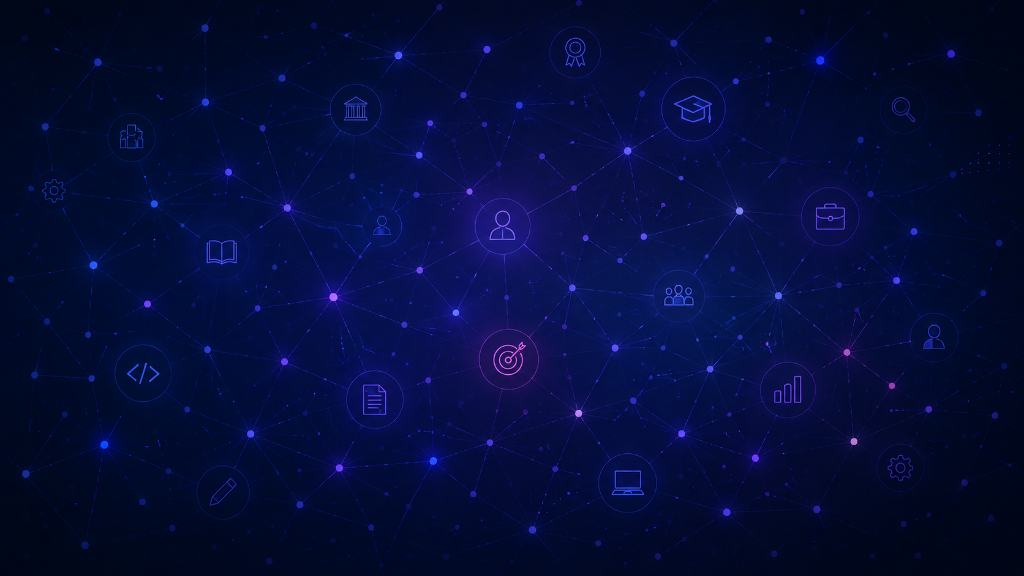
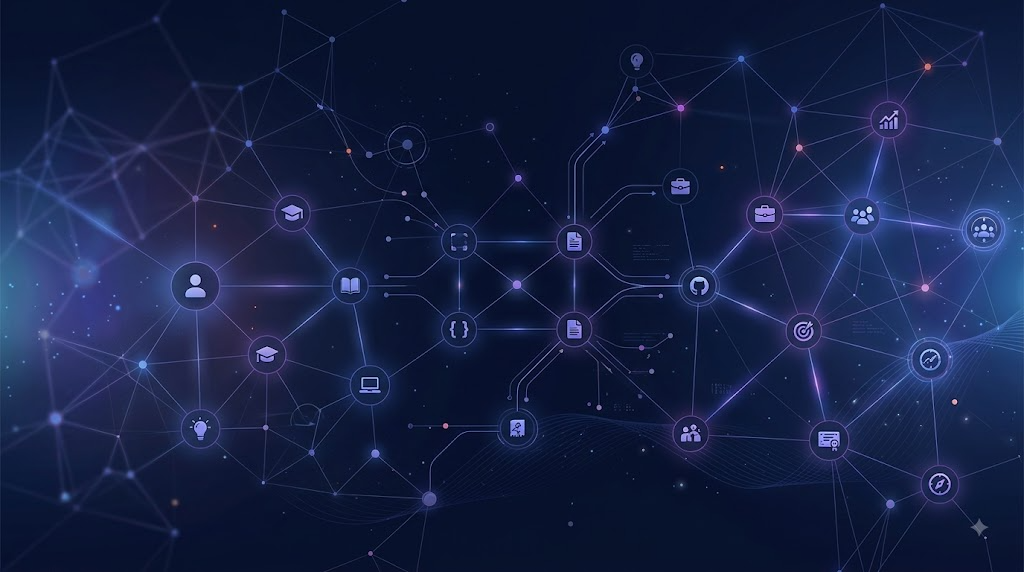
feat(member-3): replace homepage background with approved career network visual

diff --git a/src/pages/Landing.jsx b/src/pages/Landing.jsx
@@ -1,6 +1,6 @@
 import React, { useState } from 'react'
 import { useNavigate } from 'react-router-dom'
-import { motion, AnimatePresence } from 'framer-motion'
+import { motion, AnimatePresence, useReducedMotion } from 'framer-motion'
 import {
   Dna,
   ShieldCheck,
@@ -37,6 +37,8 @@ export const Landing = () => {
   const { user } = useApp()
   const [activeTabRole, setActiveTabRole] = useState('AI/ML Engineer')
   const [activePipelineStep, setActivePipelineStep] = useState(0)
+
+  const shouldReduceMotion = useReducedMotion()
 
   const heroVariants = {
     hidden: { opacity: 0, y: 24 },
@@ -92,7 +94,7 @@ export const Landing = () => {
     <div
       style={{
         minHeight: '100vh',
-        background: 'var(--color-bg)',
+        background: 'transparent',
         color: 'var(--color-text-main)',
         display: 'flex',
         flexDirection: 'column',
@@ -103,7 +105,7 @@ export const Landing = () => {
         overflowX: 'hidden'
       }}
     >
-      {/* Full-Page Fixed Animated Career Network Background Environment (Layer 0 & 1) */}
+      {/* Full-Page Fixed Uploaded Image Background Environment (Layer 0 & 1) */}
       <div
         style={{
           position: 'fixed',
@@ -113,135 +115,42 @@ export const Landing = () => {
           zIndex: 0
         }}
       >
-        {/* Dark Readability Overlay Gradient (guarantees text contrast on left while network spans full screen) */}
-        <div
-          style={{
-            position: 'absolute',
-            inset: 0,
-            background: 'linear-gradient(90deg, rgba(3, 5, 17, 0.95) 0%, rgba(3, 5, 17, 0.82) 40%, rgba(3, 5, 17, 0.45) 75%, rgba(3, 5, 17, 0.20) 100%)',
-            zIndex: 2
-          }}
-        />
-
-        {/* Ambient Glowing Neon Aura Pulse (Stationary GPU Glow) */}
+        {/* Exact Uploaded Background Image (Layer 0) */}
         <motion.div
-          animate={{
-            scale: [0.98, 1.15, 0.98],
-            opacity: [0.4, 0.75, 0.4]
-          }}
-          transition={{
-            duration: 12,
-            repeat: Infinity,
-            ease: 'easeInOut'
-          }}
+          animate={shouldReduceMotion ? {} : { scale: [1, 1.015, 1], y: [-3, 3, -3] }}
+          transition={{ duration: 25, repeat: Infinity, ease: 'easeInOut' }}
           style={{
             position: 'absolute',
             inset: 0,
             width: '100vw',
             height: '100vh',
-            background: 'radial-gradient(circle at 50% 50%, rgba(139, 92, 246, 0.35) 0%, rgba(59, 130, 246, 0.22) 50%, rgba(255, 85, 0, 0.15) 80%, transparent 100%)',
-            filter: 'blur(60px)',
-            zIndex: 1,
-            willChange: 'transform',
-            transform: 'translateZ(0)'
-          }}
-        />
-
-        {/* Full Environmental Floating Career Network Visual (GPU Accelerated 60 FPS Layer) */}
-        <motion.div
-          animate={{
-            y: [-6, 6, -6],
-            x: [-4, 4, -4],
-            scale: [1.02, 1.05, 1.02]
-          }}
-          transition={{
-            duration: 25,
-            repeat: Infinity,
-            ease: 'easeInOut'
-          }}
-          style={{
-            position: 'absolute',
-            inset: 0,
-            width: '100vw',
-            height: '100vh',
-            opacity: 0.95,
-            zIndex: 1,
             willChange: 'transform',
             transform: 'translateZ(0)'
           }}
         >
           <img
             src={careerNetworkBgImg}
-            alt="Career Network Full Screen Background"
+            alt="Approved Career Network Full Screen Background"
             decoding="async"
             style={{
-              width: '105vw',
-              height: '105vh',
-              marginLeft: '-2.5vw',
-              marginTop: '-2.5vh',
+              width: '100%',
+              height: '100%',
               objectFit: 'cover',
               objectPosition: 'center center',
-              filter: 'brightness(0.95) contrast(1.12)',
-              willChange: 'transform'
-            }}
-          />
-
-          {/* Organic Staggered Pulsing Network Nodes Overlay */}
-          {[
-            { top: '38%', left: '49%', size: 14, color: '#A855F7', delay: 0 },
-            { top: '61%', left: '49%', size: 16, color: '#FF5500', delay: 1.5 },
-            { top: '18%', left: '67%', size: 12, color: '#3B82F6', delay: 0.8 },
-            { top: '51%', left: '66%', size: 10, color: '#8B5CF6', delay: 2.2 },
-            { top: '44%', left: '21%', size: 12, color: '#38BDF8', delay: 1.2 },
-            { top: '67%', left: '77%', size: 11, color: '#EC4899', delay: 2.8 },
-            { top: '32%', left: '33%', size: 10, color: '#8B5CF6', delay: 0.4 }
-          ].map((node, idx) => (
-            <motion.div
-              key={idx}
-              animate={{
-                scale: [0.9, 1.45, 0.9],
-                opacity: [0.35, 0.9, 0.35]
-              }}
-              transition={{
-                duration: 3.5,
-                repeat: Infinity,
-                ease: 'easeInOut',
-                delay: node.delay
-              }}
-              style={{
-                position: 'absolute',
-                top: node.top,
-                left: node.left,
-                width: `${node.size}px`,
-                height: `${node.size}px`,
-                borderRadius: '50%',
-                background: node.color,
-                boxShadow: `0 0 16px 4px ${node.color}`,
-                pointerEvents: 'none',
-                willChange: 'transform, opacity'
-              }}
-            />
-          ))}
-
-          {/* Periodic Environmental Soft Light Sweep */}
-          <motion.div
-            animate={{
-              x: ['-100%', '200%']
-            }}
-            transition={{
-              duration: 7,
-              repeat: Infinity,
-              ease: 'easeInOut',
-              repeatDelay: 4
-            }}
-            style={{
-              position: 'absolute',
-              inset: 0,
-              background: 'linear-gradient(90deg, transparent 0%, rgba(139, 92, 246, 0.15) 50%, transparent 100%)',
-              pointerEvents: 'none'
+              display: 'block'
             }}
           />
         </motion.div>
+
+        {/* Independent Dark Readability Overlay Gradient (Layer 1, outside image) */}
+        <div
+          style={{
+            position: 'absolute',
+            inset: 0,
+            background: 'linear-gradient(90deg, rgba(3, 5, 17, 0.85) 0%, rgba(3, 5, 17, 0.65) 45%, rgba(3, 5, 17, 0.35) 80%, rgba(3, 5, 17, 0.15) 100%)',
+            zIndex: 1
+          }}
+        />
       </div>
 
       {/* Premium Pill-Shaped Glassmorphism Header Navigation Bar */}

diff --git a/src/components/common/NeuralBackground.jsx b/src/components/common/NeuralBackground.jsx
@@ -1,9 +1,14 @@
 import React, { useEffect, useRef } from 'react'
+import { useLocation } from 'react-router-dom'
 
 export const NeuralBackground = () => {
   const canvasRef = useRef(null)
+  const location = useLocation()
+  const isHomePage = location.pathname === '/'
 
   useEffect(() => {
+    if (isHomePage) return
+
     const canvas = canvasRef.current
     if (!canvas) return
     const ctx = canvas.getContext('2d')
@@ -116,7 +121,9 @@ export const NeuralBackground = () => {
       if (!isTouch) window.removeEventListener('mousemove', handleMouseMove)
       cancelAnimationFrame(animationFrameId)
     }
-  }, [])
+  }, [isHomePage])
+
+  if (isHomePage) return null
 
   return (
     <canvas

diff --git a/src/App.jsx b/src/App.jsx
@@ -23,9 +23,9 @@ import './styles/globals.css'
 function App() {
   return (
     <AppProvider>
-      <NeuralBackground />
-      <CustomCursor />
       <Router>
+        <NeuralBackground />
+        <CustomCursor />
         <Routes>
           {/* Public / Onboarding Routes */}
           <Route path="/" element={<Landing />} />
